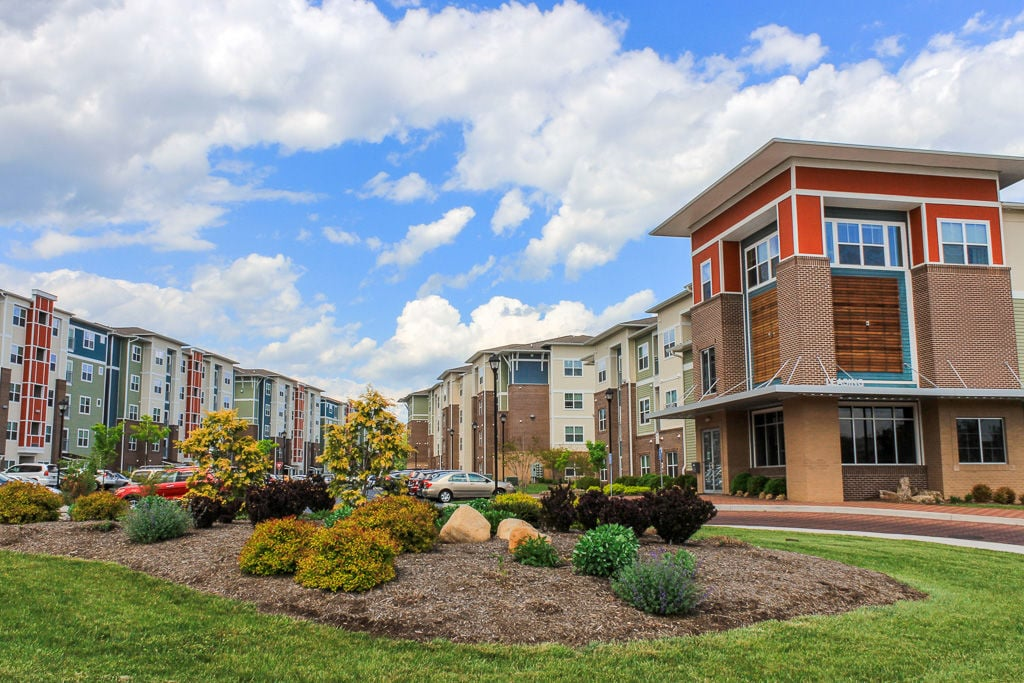
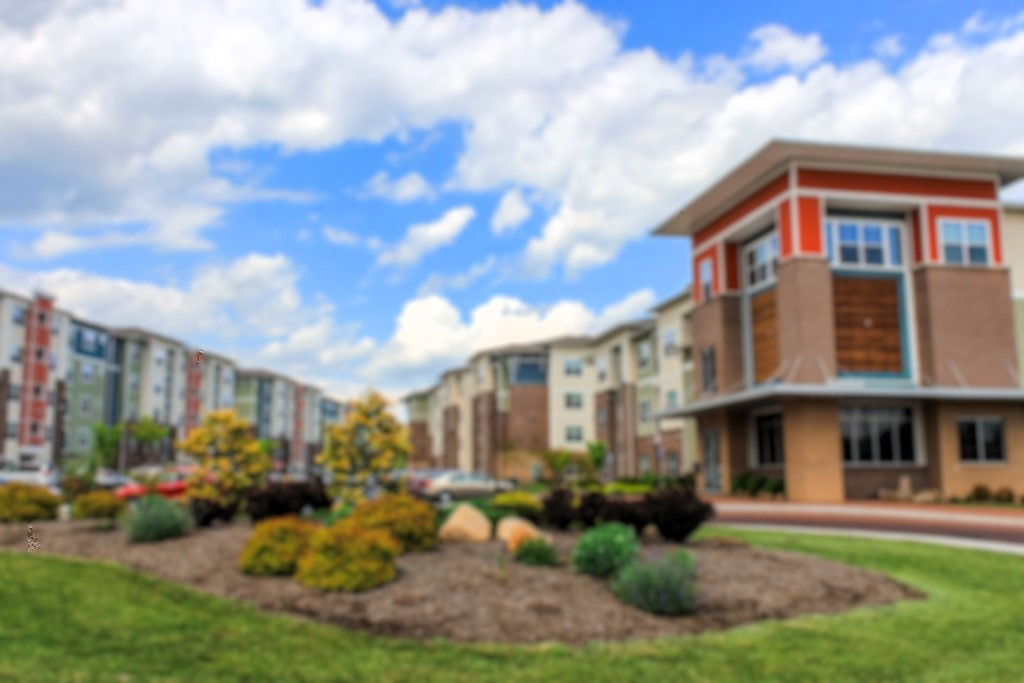
fixed routing, added sortind/filtering for apartments

Changed region(s): [[0.0, 0.1845, 1.0, 1.0], [0.4688, 0.4305, 0.5312, 0.4612], [0.7812, 0.0922, 0.8125, 0.123]]

diff --git a/frontend/src/components/Home.js b/frontend/src/components/Home.js
@@ -1,58 +1,95 @@
-import React from 'react';
-import { Container, Row, Col } from 'react-bootstrap';
-// import placeholderImage from './placeholder.jpg';
+import React, { useState } from 'react';
+import { Container, Row, Col, Button, Dropdown, ButtonGroup } from 'react-bootstrap';
 import backgroundImage from './blacksburglivingbackground.jpg';
 
 const Home = () => {
-    // (replace this with your actual data)
-    const homeListings = [
-        { id: 1, price: '$1000', description: 'Spacious 2-bedroom apartment in downtown Blacksburg' },
-        { id: 2, price: '$1200', description: 'Cozy 1-bedroom apartment near Virginia Tech campus' },
-        { id: 3, price: '$1500', description: 'Modern 3-bedroom house with large backyard' },
-        { id: 1, price: '$1000', description: 'Spacious 2-bedroom apartment in downtown Blacksburg' },
-        { id: 2, price: '$1200', description: 'Cozy 1-bedroom apartment near Virginia Tech campus' },
-        { id: 3, price: '$1500', description: 'Modern 3-bedroom house with large backyard' },
+    const [filterType, setFilterType] = useState(null);
+    const [sortOrder, setSortOrder] = useState(null);
 
+    const homeListings = [
+        { id: 1, price: 1000, description: 'Spacious 2-bedroom apartment in downtown Blacksburg', type: 'Apartment' },
+        { id: 2, price: 1200, description: 'Cozy 1-bedroom apartment near Virginia Tech campus', type: 'Apartment' },
+        { id: 3, price: 1500, description: 'Modern 3-bedroom apartment with large backyard', type: 'Apartment' },
+        { id: 4, price: 800, description: 'Furnished single room in dormitory building', type: 'Dorm' },
     ];
 
+    const handleFilter = (type) => {
+        setFilterType(type);
+    };
+
+    const handleSort = (order) => {
+        setSortOrder(order);
+    };
+
+    let filteredListings = homeListings;
+    if (filterType) {
+        filteredListings = homeListings.filter(home => home.type === filterType);
+    }
+    if (sortOrder === 'lowToHigh') {
+        filteredListings.sort((a, b) => a.price - b.price);
+    } else if (sortOrder === 'highToLow') {
+        filteredListings.sort((a, b) => b.price - a.price);
+    }
+
     return (
-        <div id="home" >
-            <div id="home" style={{
+        <div id="home">
+            <div style={{
                 display: 'flex',
-                justifyContent: 'center',
+                flexDirection: 'column',
                 alignItems: 'center',
-                width: '100vw', // Set width to 100% of the viewport width
-                height: '70vh', // Set height to 100% of the viewport height
+                justifyContent: 'center',
+                width: '100vw',
+                height: '70vh',
                 backgroundImage: `url(${backgroundImage})`,
                 backgroundSize: 'cover',
                 backgroundPosition: 'center',
-                backgroundAttachment: 'fixed', // Prevent background from scrolling
+                backgroundAttachment: 'fixed',
             }}>
-                <h1 style={{ color: 'white' }}>Your key to Blacksburg's best living spaces.</h1>
+                <h1 className='' style={{ color: 'white', fontSize: '50px' }}>Your key to Blacksburg's best living spaces.</h1>
+                <div className="mb-3" style={{ textAlign: 'center' }} >
+                    <div class="btn-group" role="group" aria-label="Basic radio toggle button group" style={{ paddingTop: '20px' }}>
+                        <input type="radio" class="btn-check" name="btnradio" id="btnradio1" autocomplete="off" onClick={() => handleFilter(null)} />
+                        <label class="btn btn-outline-light" for="btnradio1">All</label>
+
+                        <input type="radio" class="btn-check" name="btnradio" id="btnradio2" autocomplete="off" onClick={() => handleFilter('Apartment')} />
+                        <label class="btn btn-outline-light" for="btnradio2">Apartments</label>
+
+                        <input type="radio" class="btn-check" name="btnradio" id="btnradio3" autocomplete="off" onClick={() => handleFilter('Dorm')} />
+                        <label class="btn btn-outline-light" for="btnradio3">Dorms</label>
+
+                    </div>
+
+                </div>
             </div>
- 
 
-            <div>
-                <Container className="text-center" >
+            <Container className="mt-5">
+                <Row style={{paddingBottom: '50px'}}>
+                    <Dropdown>
+                        <Dropdown.Toggle variant="outline-dark" id="dropdown-basic">
+                            Sorted by
+                        </Dropdown.Toggle>
 
-                </Container>
-                <Container className="mt-5">
-                    <Row>
-                        {homeListings.map(home => (
-                            <Col key={home.id} md={4} className="mb-4">
-                                <div className="card" style={{ height: '300px', width: '300px' }}>
-                                    <img src={backgroundImage} className="card-img-top" alt="Placeholder" style={{ height: '200px' }} />
-                                    <div className="card-body">
-                                        <h5 className="card-title">{home.price}</h5>
-                                        <p className="card-text">{home.description}</p>
-                                    </div>
+                        <Dropdown.Menu>
+                            <Dropdown.Item onClick={() => handleSort('lowToHigh')}>Price: Low to High</Dropdown.Item>
+                            <Dropdown.Item onClick={() => handleSort('highToLow')}>Price: High to Low</Dropdown.Item>
+                        </Dropdown.Menu>
+                    </Dropdown>
+                </Row>
+                <Row>
+                    {filteredListings.map(home => (
+                        <Col key={home.id} md={4} className="mb-4">
+                            <div className="card" style={{ height: '350px' }}>
+                                <img src={backgroundImage} className="card-img-top" alt="Placeholder" style={{ height: '200px' }} />
+                                <div className="card-body">
+                                    <h5 className="card-title">{home.price}</h5>
+                                    <p className="card-text">{home.description}</p>
+                                    <p className="card-text"><b>{home.type}</b></p>
                                 </div>
-                            </Col>
-                        ))}
-                    </Row>
-                </Container>
-            </div>
-
+                            </div>
+                        </Col>
+                    ))}
+                </Row>
+            </Container>
         </div>
     );
 };

diff --git a/frontend/public/index.html b/frontend/public/index.html
@@ -1,21 +1,19 @@
 <!DOCTYPE html>
 <html lang="en">
-  <head>
-    <meta charset="utf-8" />
-    <link rel="icon" href="%PUBLIC_URL%/favicon.ico" />
-    <meta name="viewport" content="width=device-width, initial-scale=1" />
-    <meta name="theme-color" content="#000000" />
-    <meta
-      name="description"
-      content="Web site created using create-react-app"
-    />
-    <link rel="apple-touch-icon" href="%PUBLIC_URL%/logo192.png" />
-    <!--
+
+<head>
+  <meta charset="utf-8" />
+  <link rel="icon" href="%PUBLIC_URL%/favicon.ico" />
+  <meta name="viewport" content="width=device-width, initial-scale=1" />
+  <meta name="theme-color" content="#000000" />
+  <meta name="description" content="Web site created using create-react-app" />
+  <link rel="apple-touch-icon" href="%PUBLIC_URL%/logo192.png" />
+  <!--
       manifest.json provides metadata used when your web app is installed on a
       user's mobile device or desktop. See https://developers.google.com/web/fundamentals/web-app-manifest/
     -->
-    <link rel="manifest" href="%PUBLIC_URL%/manifest.json" />
-    <!--
+  <link rel="manifest" href="%PUBLIC_URL%/manifest.json" />
+  <!--
       Notice the use of %PUBLIC_URL% in the tags above.
       It will be replaced with the URL of the `public` folder during the build.
       Only files inside the `public` folder can be referenced from the HTML.
@@ -24,12 +22,16 @@
       work correctly both with client-side routing and a non-root public URL.
       Learn how to configure a non-root public URL by running `npm run build`.
     -->
-    <title>React App</title>
-  </head>
-  <body>
-    <noscript>You need to enable JavaScript to run this app.</noscript>
-    <div id="root"></div>
-    <!--
+  <title>React App</title>
+  <style>
+    @import url('https://fonts.googleapis.com/css2?family=Josefin+Sans:ital,wght@0,100..700;1,100..700&display=swap');
+  </style>
+</head>
+
+<body>
+  <noscript>You need to enable JavaScript to run this app.</noscript>
+  <div id="root"></div>
+  <!--
       This HTML file is a template.
       If you open it directly in the browser, you will see an empty page.
 
@@ -39,5 +41,6 @@
       To begin the development, run `npm start` or `yarn start`.
       To create a production bundle, use `npm run build` or `yarn build`.
     -->
-  </body>
+</body>
+
 </html>

diff --git a/frontend/src/components/CreateAccount.js b/frontend/src/components/CreateAccount.js
@@ -34,7 +34,7 @@ const CreateAccount = () => {
   };
 
   return (
-    <div
+    <div class = 'blur-this'
       id="create-account"
       style={{
         minHeight: '100vh',
@@ -42,10 +42,11 @@ const CreateAccount = () => {
         backgroundSize: 'cover',
         backgroundPosition: 'center',
         paddingTop: '50px'
+        
       }}
     >
       <div className="container">
-        <Card style={{ width: '400px', margin: 'auto'}}>
+        <Card className = 'account-card' style={{ width: '400px', margin: 'auto'}}>
           <Card.Body>
             <h2 className="text-center">Register</h2>
             <Form onSubmit={handleSubmit}>
@@ -65,13 +66,13 @@ const CreateAccount = () => {
                 <Form.Label>Password</Form.Label>
                 <Form.Control type="password" id="password" name="password" value={formData.password} onChange={handleChange} required />
               </Form.Group>
-              <Form.Group>
+              <Form.Group>  
                 <Form.Label>Confirm Password</Form.Label>
                 <Form.Control type="password" id="confirmPassword" name="confirmPassword" value={formData.confirmPassword} onChange={handleChange} required />
               </Form.Group>
               <Form.Group>
                 <p>Select User Type:</p>
-                <div className="btn-group btn-group-toggle" data-toggle="buttons" style>
+                <div className="btn-group btn-group-toggle" data-toggle="buttons">
                   <Button className={`btn ${formData.userType === 'landlord' ? 'btn-primary' : 'btn-outline-primary'}`} onClick={() => handleUserTypeChange('landlord')}>Landlord</Button>
                   <Button className={`btn ${formData.userType === 'resident' ? 'btn-primary' : 'btn-outline-primary'}`} onClick={() => handleUserTypeChange('resident')}>Resident</Button>
                 </div>

diff --git a/frontend/src/components/LoginAccount.js b/frontend/src/components/LoginAccount.js
@@ -32,11 +32,11 @@ const LoginAccount = () => {
         backgroundImage: `url(${loginBackground})`,
         backgroundSize: 'cover',
         backgroundPosition: 'center',
-        paddingTop: '50px'
+        paddingTop: '150px'
       }}
     >
       <div className="container d-flex justify-content-center align-items-center">
-        <Card style={{ width: '400px' }}>
+        <Card className = 'account-card' style={{ width: '400px', borderRadius: '5px'}}>
           <Card.Body>
             <h2 className="text-center">Login</h2>
             <Form onSubmit={handleSubmit}>
@@ -44,11 +44,11 @@ const LoginAccount = () => {
                 <Form.Label>Username</Form.Label>
                 <Form.Control type="text" name="username" value={formData.username} onChange={handleChange} required />
               </Form.Group>
-              <Form.Group>
+              <Form.Group style={{marginTop: '20px'}}>
                 <Form.Label>Password</Form.Label>
                 <Form.Control type="password" name="password" value={formData.password} onChange={handleChange} required />
               </Form.Group>
-              <Button type="submit" variant="primary" block>Login</Button>
+              <Button type="submit" variant="primary" block style={{marginTop: '20px'}}>Login</Button>
             </Form>
           </Card.Body>
         </Card>

diff --git a/frontend/src/App.css b/frontend/src/App.css
@@ -36,3 +36,15 @@
     transform: rotate(360deg);
   }
 }
+
+.account-card {
+  box-shadow: 5px 5px 2px 1px rgba(0, 0, 0, 0.2);
+}
+
+.josefin-sans {
+  font-family: "Josefin Sans", sans-serif;
+  font-optical-sizing: auto;
+  /* Set the desired font weight */
+  font-weight: 400; /* For example: 400 for regular, 700 for bold */
+  font-style: normal;
+}

diff --git a/frontend/src/App.js b/frontend/src/App.js
@@ -17,7 +17,7 @@ import LoginAccount from './components/LoginAccount.js';
 function App() {
   return (
     <Router>
-      <div>
+      <div className="josefin-sans">
         <Navbar />
         <Routes>
           <Route path="/" element={<Home/>} />

diff --git a/frontend/src/fonts.css b/frontend/src/fonts.css
@@ -1,0 +1,6 @@
+@font-face {
+    font-family: 'Roboto';
+    src: url('./fonts/Roboto-Regular.ttf') format('truetype');
+    /* Add similar lines for other font weights and styles if needed */
+  }
+  
